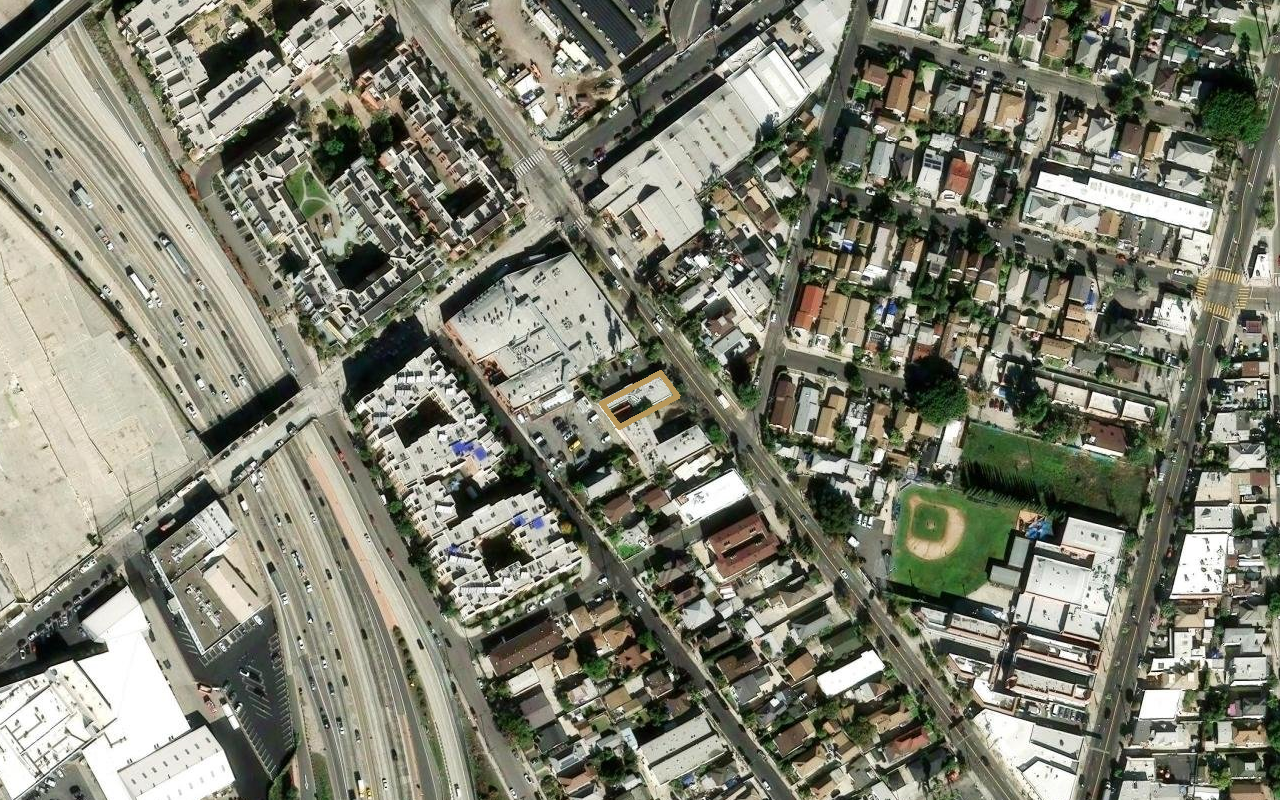
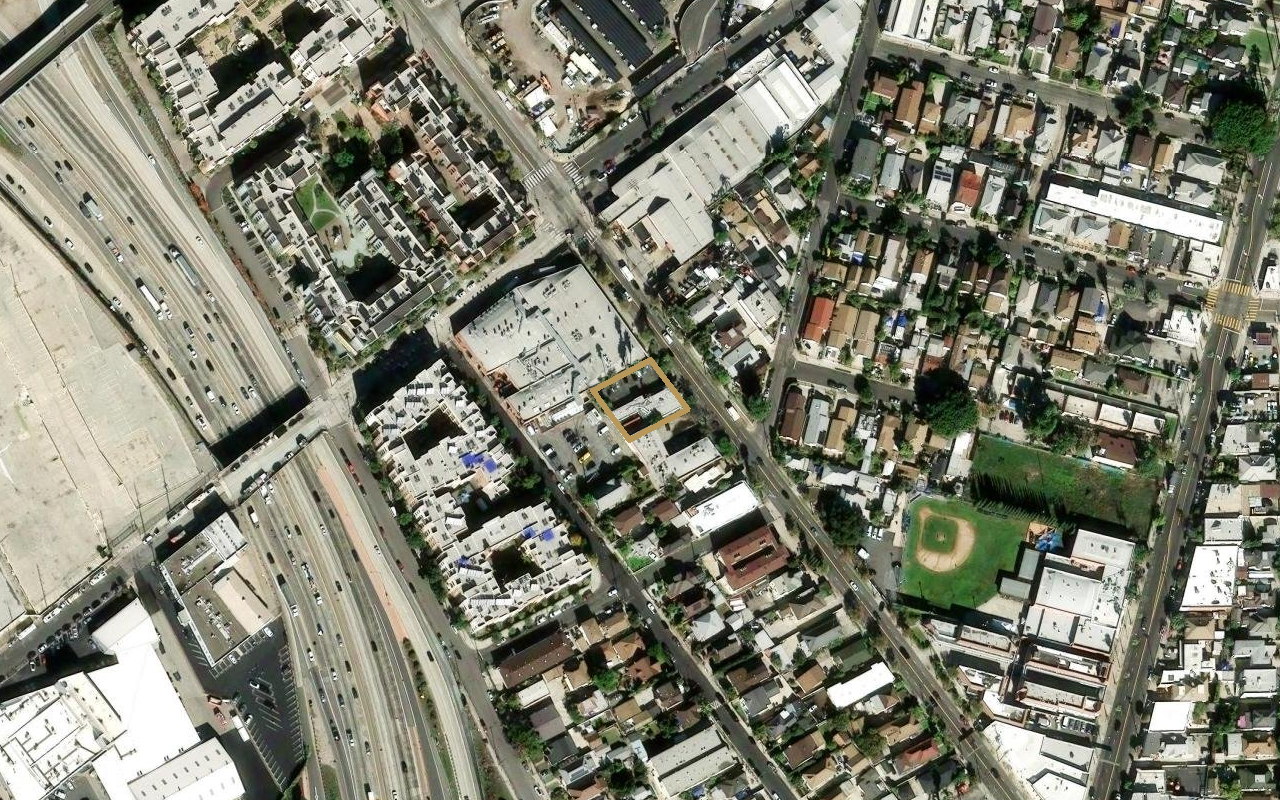
Outline both parcels (building and parking lot) in the aerials; list both APNs

diff --git a/index.html b/index.html
@@ -138,7 +138,7 @@ header .badge{display:inline-block;background:#2f8a55;color:#fff;font-size:12px;
       <span>Prepared by: The LAAA Team &amp; Matt Ziegler &middot; Marcus &amp; Millichap</span>
       <span>November 2, 2026</span>
     </div>
-    <div class="hero-frame" style="margin:24px 0 0;border:1px solid rgba(184,152,90,.5)"><img src="images/hero_aerial.png" alt="Aerial view of 220 W Avenue 26 with the lot outlined in gold"></div>
+    <div class="hero-frame" style="margin:24px 0 0;border:1px solid rgba(184,152,90,.5)"><img src="images/hero_aerial.png" alt="Aerial view of 220 W Avenue 26 with the two-parcel site outlined in gold"></div>
   </div>
 </header>
 
@@ -162,7 +162,7 @@ header .badge{display:inline-block;background:#2f8a55;color:#fff;font-size:12px;
 
 <section class="card" id="summary">
   <h2>Executive Summary</h2>
-  <p>220 W Avenue 26 is a <b>10,633 SF</b> lot on Avenue 26 in Lincoln Heights, improved with a one-story 3,381 SF building from 1937 that has served as a veterinary hospital. It is zoned <b>UV(CA)</b>, the Urban Village zone of the Cornfield Arroyo Seco Specific Plan (CASP), which allows residential, commercial and light industrial uses in the same building, with no limit on unit count.</p>
+  <p>220 W Avenue 26 is a <b>10,633 SF</b> site of two parcels on Avenue 26 in Lincoln Heights: a one-story 3,381 SF building from 1937 that has served as a veterinary hospital, and the paved parking lot beside it. It is zoned <b>UV(CA)</b>, the Urban Village zone of the Cornfield Arroyo Seco Specific Plan (CASP), which allows residential, commercial and light industrial uses in the same building, with no limit on unit count.</p>
   <p>The site is about 0.2 miles from the Lincoln/Cypress station on the Metro L Line, in a Transit Priority Area and a federal Opportunity Zone. Our reading of the plan's maps gives it a maximum FAR of 3:1, about <b>31,900 SF</b> of building, and heights up to a 60 ft average. A by-right mixed-use project of up to 15 units fits on the lot, and the plan's affordable housing bonus opens a larger building. Four 100% affordable projects have been approved or filed within a mile since 2024, so affordable developers, market-rate builders and owner-users of the existing building all make up the buyer pool.</p>
   <div class="stat-band">
     <div class="stat"><div class="l">Lot</div><div class="v">10,633 SF</div><div class="s">0.244 acres</div></div>
@@ -176,11 +176,11 @@ header .badge{display:inline-block;background:#2f8a55;color:#fff;font-size:12px;
 
 <section class="card" id="subject">
   <h2>Subject Property</h2>
-  <div class="hero-frame"><img src="images/context_aerial.png" alt="Aerial view of the block with the lot outlined in gold"></div>
-  <div class="caption" style="margin-top:-8px;margin-bottom:12px">The lot outlined in gold, fronting Avenue 26 (Esri World Imagery). Parcel lines are approximate.</div>
+  <div class="hero-frame"><img src="images/context_aerial.png" alt="Aerial view of the block with the two-parcel site outlined in gold"></div>
+  <div class="caption" style="margin-top:-8px;margin-bottom:12px">The two-parcel site (building and parking lot) outlined in gold, fronting Avenue 26 (Esri World Imagery). Parcel lines are approximate.</div>
   <div class="spec-grid">
     <div class="spec"><b>Address</b>220 W Avenue 26, Los Angeles, CA 90031</div>
-    <div class="spec"><b>APN</b>5205-014-019 &middot; Lot 5, Addition No. 3 to the Hamilton Tract</div>
+    <div class="spec"><b>APNs</b>5205-014-019 (building; Lot 5, Addition No. 3 to the Hamilton Tract) and 5205-014-020 (parking lot)</div>
     <div class="spec"><b>Lot Size</b>10,633 SF (0.244 acres)</div>
     <div class="spec"><b>Zoning</b>UV(CA): Urban Village, Cornfield Arroyo Seco Specific Plan &middot; General Plan: Hybrid Industrial</div>
     <div class="spec"><b>Existing Improvements</b>One-story building, 3,381 SF, built 1937; assessor use: veterinary hospital</div>
